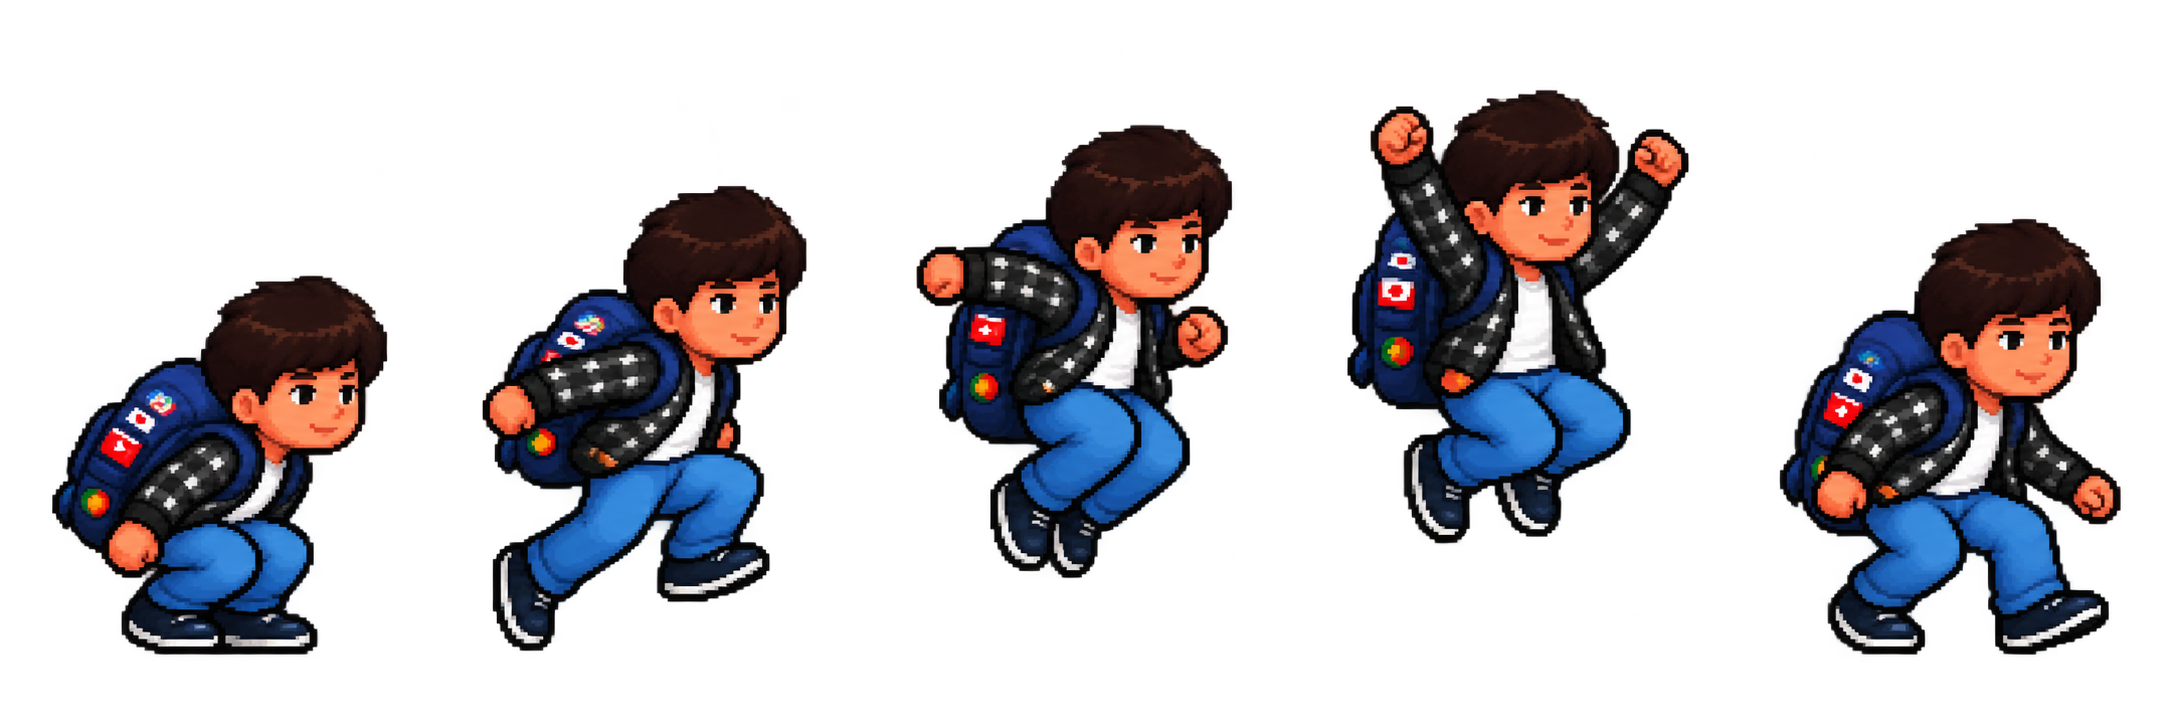
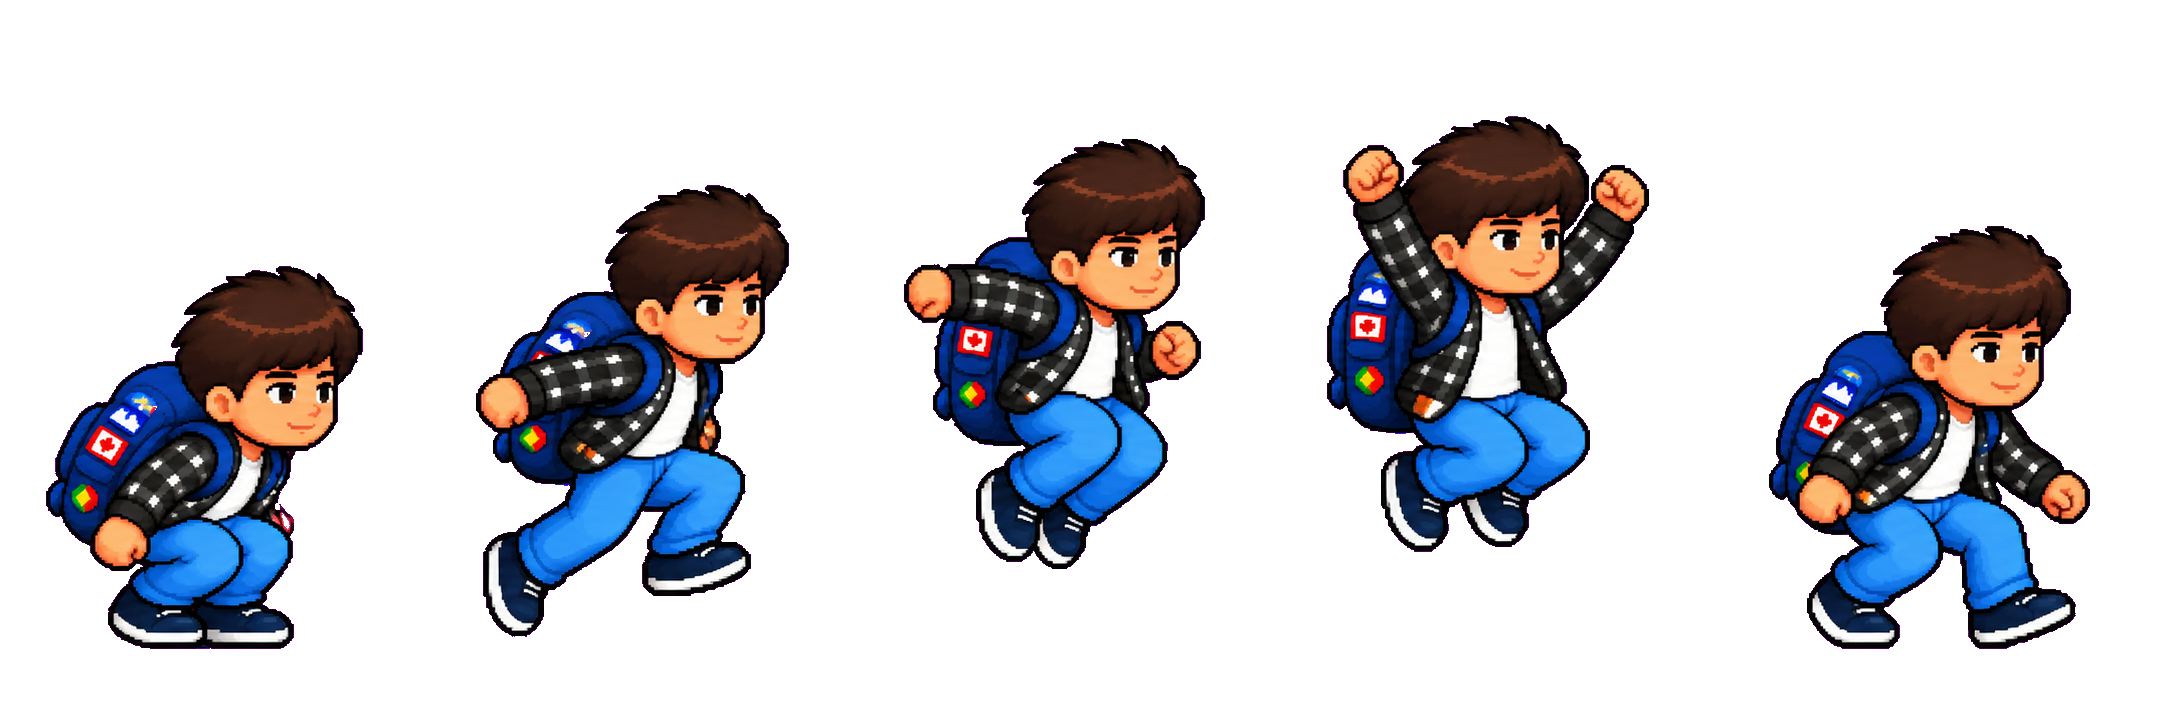
Estepa ilustrada, portada nueva de El Calafate y Vicente con todas las poses nuevas
- Estepa (Calafate → Madryn): fondo y suelo de Codex, laguna turquesa en los
  pozos, piedras, plataformas y troncos secos, y el kit de animales.
- build-fondos: piezas en una sola fila y recorte del marco de los cuadros de
  agua (se veía la grilla).
- El suelo del tramo llega siempre hasta abajo de la pantalla.
- Portada de El Calafate: el pueblo con el Lago Argentino.
- Vicente: las 9 acciones rehechas con la paleta de la caminata v5.

diff --git a/src/systems/parallax.js b/src/systems/parallax.js
@@ -327,7 +327,11 @@ function createImageParallax(scene, paisajeId, info, { width, groundY }) {
       .setDepth(depth);
   const layers = [
     { tile: capa("fondo", dy, info.corte, -15), factor: FACTOR_IMAGEN.fondo },
-    { tile: capa("suelo", dy + info.corte, info.alto - info.corte, -5), factor: FACTOR_IMAGEN.suelo },
+    // El suelo llega siempre hasta abajo de la pantalla (algunos suelos son más bajos y quedaba una franja).
+    {
+      tile: capa("suelo", dy + info.corte, Math.max(info.alto - info.corte, 720 - dy - info.corte), -5),
+      factor: FACTOR_IMAGEN.suelo,
+    },
   ];
   return {
     imagen: true,
